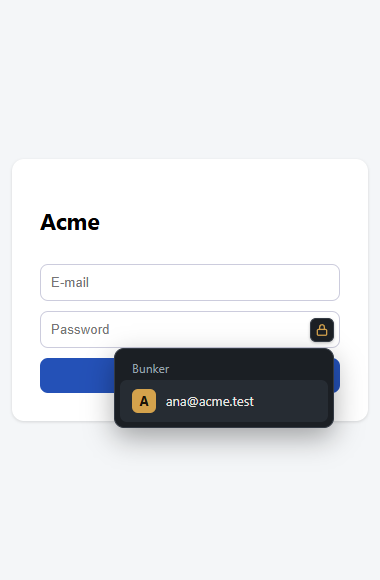
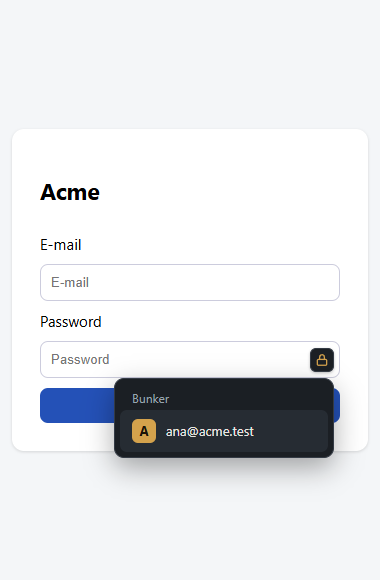
test(extension): address Sonar findings in test fixtures
Label the fixture login inputs, fail fast when the reopened popup is missing
instead of cascading TypeErrors, and mark deliberately weak test passwords.

Claude-Session: https://claude.ai/code/session_01HqJr5tGEGAYVGwjyFbKj2d

Changed region(s): [[0.0868, 0.5276, 0.8974, 0.8379], [0.0868, 0.3103, 0.2605, 0.4345]]

diff --git a/apps/extension/tests/e2e/fixtures/login.html b/apps/extension/tests/e2e/fixtures/login.html
@@ -6,7 +6,9 @@
   <body>
     <form id="login" action="/done" method="get">
       <h2>Acme</h2>
+      <label for="user">E-mail</label>
       <input id="user" name="user" type="email" placeholder="E-mail" autocomplete="username" />
+      <label for="pass">Password</label>
       <input id="pass" name="pass" type="password" placeholder="Password" autocomplete="current-password" />
       <button type="submit">Sign in</button>
     </form>
